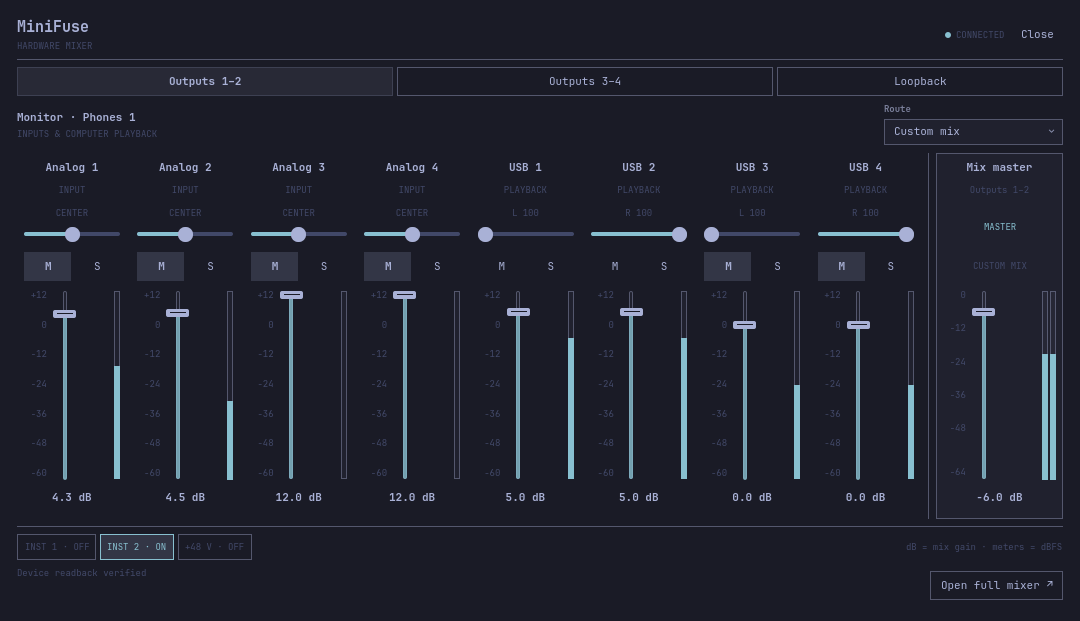
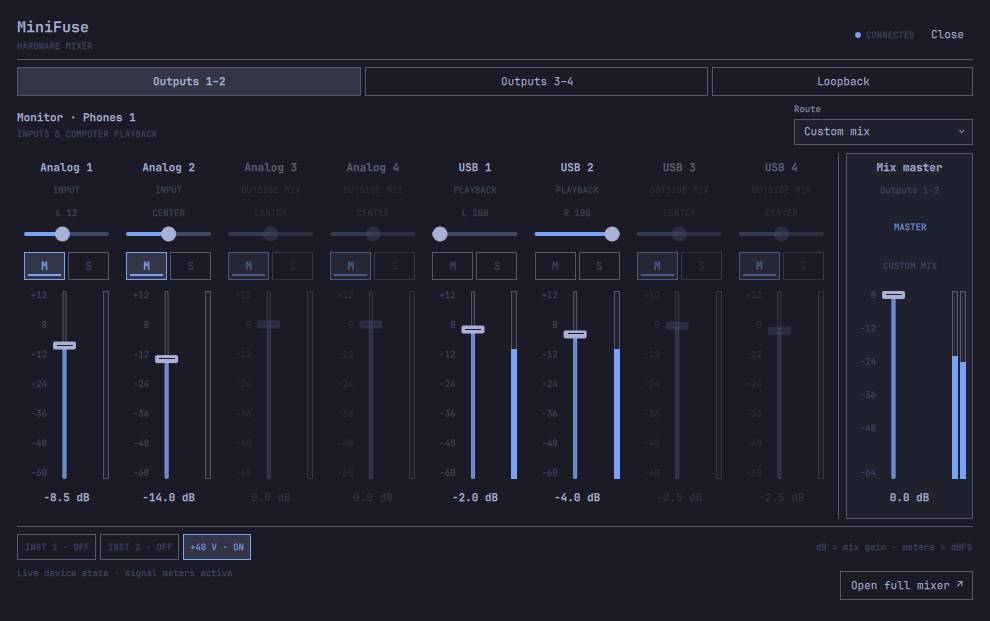
Show the installed hardware mixer panel in the README

diff --git a/README.md b/README.md
@@ -21,7 +21,10 @@ Status messages occupy a fixed footer and never move the faders. M/S indications
 follow confirmed state independently of keyboard focus. The bar icon toggles the
 panel, and clicking outside on any monitor dismisses it.
 
-![Mixer layout with illustrative fixture data](preview.png)
+![MiniFuse hardware mixer panel connected to a MiniFuse 4](preview.png)
+
+*Installed Omarchy panel connected to a MiniFuse 4, showing confirmed controls
+and live signal meters.*
 
 ## Requirements and installation
 
